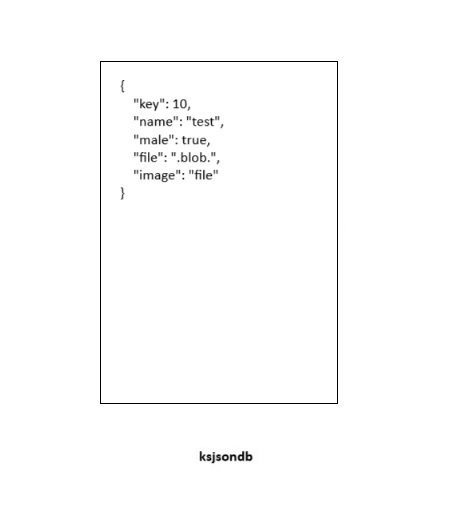
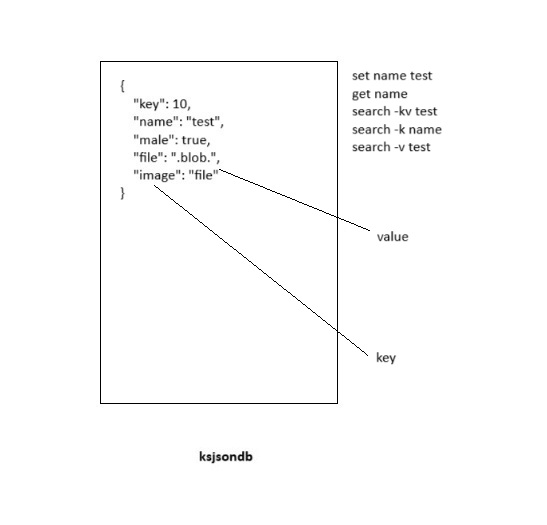
[COMMIT] Adding minor changes to docs

diff --git a/README.md b/README.md
@@ -45,7 +45,7 @@ todo: add all features
 ![Basic Design - Architecture of KVJSONDB](https://github.com/ganeshkbhat/keyvalue-jsondb/blob/main/kvjsondb-json-kv-inmemory-db-architecture.jpg)
 
 
-#### Shell Commands - Basic Usage
+#### ksjsondb Basic Storage
 ![DB Basic Storage](https://github.com/ganeshkbhat/keyvalue-jsondb/blob/main/db-basic-storage.jpg)
 
 
